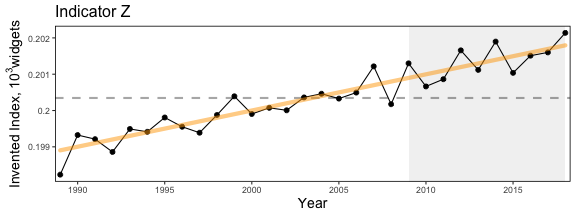
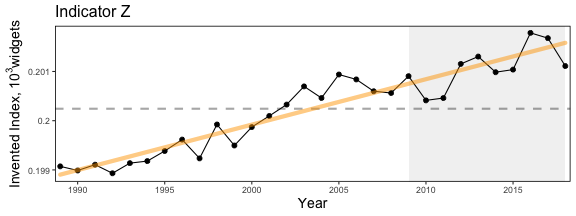
508 alt text and speaker notes

diff --git a/docs/20200108_EBFM_Gaichas.html b/docs/20200108_EBFM_Gaichas.html
@@ -61,7 +61,7 @@ https://www.integratedecosystemassessment.noaa.gov/national/IEA-approach
 
 Eight regional Fishery Management Councils establish plans for sustainable management of stocks within their jurisdictions. All are governed by the same law, but tailor management to their regional stakeholder needs.
 
-![Council map](EDAB_images/USCouncils.png)
+![US map highlighting regions for each fishery management council](EDAB_images/USCouncils.png)
 
 More information: http://www.fisherycouncils.org/
 https://www.fisheries.noaa.gov/topic/laws-policies#magnuson-stevens-act
@@ -70,10 +70,10 @@ https://www.fisheries.noaa.gov/topic/laws-policies#magnuson-stevens-act
 ## The Mid-Atlantic Fishery Management Council (MAFMC)
 
 .pull-left-30[
-![MAcouncil](EDAB_images/MACouncil.png)
+![US East Coast map highlighting Mid-Atlantic council jurisdiction](EDAB_images/MACouncil.png)
 ]
 .pull-right-70[
-![MAFMPs](EDAB_images/MAFMPs2.png)
+![MAFMC fishery management plans and species](EDAB_images/MAFMPs2.png)
 ]
 Source: http://www.mafmc.org/fishery-management-plans
 ---
@@ -487,16 +487,18 @@ Indicators are selected to
 1. Be responsive to ecosystem change
 
 
-&lt;img src="20200108_EBFM_Gaichas_files/figure-html/doc-orientation-1.png" style="display: block; margin: auto;" /&gt;
 
 
-
+.center[
+![plot in standard reporting format described in speaker notes](20200108_EBFM_Gaichas_files/figure-html/doc-orientation-1.png)
+]
 .footnote[
 [1] Rice J. C.Rochet M. J. "A framework for selecting a suite of indicators for fisheries management." ICES Journal of Marine Science 62 (2005): 516–527.  
 [2] Link J. 2010. Ecosystem-Based Fisheries Management: Confronting Tradeoffs . Cambridge University Press, New York.  
 [3] Zador, Stephani G., et al. "Ecosystem considerations in Alaska: the value of qualitative assessments." ICES Journal of Marine Science 74.1 (2017): 421-430.
 ]
-
+???
+The figure format is illustrated here. Trend lines are shown when slope is significantly different from 0 at the p &lt; 0.05 level. An orange line signifies an overall positive trend, and purple signifies a negative trend. To minimize bias introduced by small sample size, no trend is fit for &lt; 30 year time series. Dashed lines represent mean values of time series unless the indicator is an anomaly, in which case the dashed line is equal to 0. Shaded regions indicate the past ten years. If there are no new data for the most recent year, the shaded region will still cover this time period. 
 ---
 ## Indicator spatial scales--already Mid-Atlantic specific
 
@@ -1096,10 +1098,11 @@ Each species ranked according to position/color in the plot on the right
 
 
 ---
-<div id="htmlwidget-32d6f9f6144295c754f8" style="width:710px;height:710px;" class="chorddiag html-widget"></div>
-<script type="application/json" data-for="htmlwidget-32d6f9f6144295c754f8">{"x":{"matrix":[[0,0,0,0,0,0,0,0,0,0,0,0,0,0,0,0,0,0,0,0,0,0,0,0,0,0,0,0,0,0,0,0,0,0,0,0,0,0,0,0,0,0,0,0,0,0,0,0,0,0,0,0,0,0,0,0,0],[0,0,0,0,0,0,0,0,0,0,0,0,0,0,0,0,0,0,0,0,0,0,0,0,0,0,0,0,0,0,0,0,0,0,0,0,0,0,0,0,0,0,0,1,0,0,0,0,1,0,0,0,0,0,0,0,0],[0,0,0,0,0,0,0,0,0,0,0,0,0,0,0,0,0,0,0,0,0,0,0,0,0,0,0,0,0,0,0,0,0,0,0,0,0,0,0,0,0,0,0,0,0,0,0,0,0,0,0,1,0,0,1,1,0],[0,0,0,0,0,0,0,0,0,0,0,0,0,0,0,0,0,0,0,0,0,0,0,0,0,0,0,0,0,0,0,0,0,0,0,0,0,0,0,0,0,0,0,1,0,0,0,0,0,0,0,0,0,0,0,0,0],[0,0,0,0,0,0,0,0,0,0,0,0,0,0,0,0,0,0,0,0,0,0,0,0,0,0,0,0,0,0,0,0,0,0,0,0,0,0,0,0,0,0,0,1,0,0,0,0,0,0,0,0,0,0,0,0,0],[0,0,0,0,0,0,0,0,0,0,0,0,0,0,0,0,0,0,0,0,0,0,0,0,0,0,0,0,0,0,0,0,0,0,0,0,0,0,0,0,0,0,0,0,0,0,0,0,1,0,0,0,0,0,0,0,0],[0,0,0,0,0,0,0,0,0,0,0,0,0,0,0,0,0,0,0,0,0,0,0,0,0,0,0,0,0,0,0,0,0,0,0,0,0,0,0,0,0,0,0,0,0,0,0,0,1,0,0,0,0,0,0,0,0],[0,0,0,0,0,0,0,0,0,0,0,0,0,0,0,0,0,0,0,0,0,0,0,0,0,0,0,0,0,0,0,1,0,0,0,0,0,0,0,0,0,0,0,0,0,0,0,0,0,0,0,0,0,0,0,0,0],[0,0,0,0,0,0,0,1,0,0,0,0,0,0,0,0,0,0,0,0,0,1,0,0,1,0,0,0,0,0,0,0,0,1,0,0,0,0,0,1,0,0,0,1,0,0,0,0,1,0,0,1,0,0,1,0,0],[0,0,0,0,0,0,0,0,0,0,0,0,0,0,0,0,0,0,1,0,0,0,0,0,0,0,0,0,0,0,0,0,0,0,0,0,0,0,0,0,0,0,0,0,0,0,0,0,0,0,0,0,0,0,1,0,0],[0,0,0,0,0,0,0,0,0,0,0,0,0,0,0,0,0,0,0,0,0,0,0,0,0,0,0,0,0,0,0,0,0,0,0,0,0,0,0,0,0,0,0,0,0,0,0,0,0,0,0,0,0,0,1,0,0],[0,0,0,0,0,0,0,0,0,0,0,0,0,0,0,0,0,0,0,0,0,0,0,0,0,0,0,0,0,0,0,1,0,0,0,0,0,0,0,0,0,0,0,1,0,0,0,0,1,0,0,0,0,0,0,0,0],[0,0,0,0,0,0,0,0,0,0,0,0,0,0,0,0,0,0,0,0,0,0,0,0,0,0,0,0,0,0,0,0,0,0,0,0,0,0,0,0,0,0,0,1,0,0,0,0,0,0,0,0,0,0,0,0,0],[0,0,0,0,0,0,0,0,0,0,0,0,0,0,0,0,0,0,0,0,0,0,0,0,1,0,0,0,0,0,0,0,0,0,0,0,0,0,0,0,0,0,0,0,0,0,0,0,0,0,0,0,0,0,0,0,0],[0,0,0,0,0,0,0,0,0,0,0,0,0,0,0,1,0,1,0,1,0,0,0,0,0,0,0,0,0,0,0,0,0,0,0,0,0,0,0,0,0,0,0,0,0,0,0,0,0,0,0,0,0,0,0,0,0],[0,0,0,0,0,0,0,0,0,0,0,0,0,0,0,0,0,1,0,0,0,0,0,0,0,0,0,0,0,0,0,0,0,0,0,0,0,0,0,0,0,0,0,0,0,0,0,0,0,0,0,0,0,0,0,0,0],[0,0,0,0,0,0,0,0,0,0,0,0,0,1,0,0,0,0,0,0,0,0,0,0,0,0,0,0,0,0,0,0,0,0,0,0,0,0,0,0,0,0,0,0,0,0,0,0,0,0,0,0,0,0,0,0,0],[0,0,0,0,0,0,0,0,0,0,0,0,0,0,0,0,0,0,0,0,1,0,0,0,0,0,0,0,0,0,0,0,0,0,0,0,0,0,0,0,0,0,0,0,0,0,0,0,0,0,0,0,0,0,0,1,0],[0,0,0,0,0,0,0,0,0,0,0,0,0,0,0,0,0,0,0,1,0,0,0,0,1,0,0,1,0,0,0,0,0,0,0,0,0,0,0,0,0,0,0,0,0,0,0,0,0,0,0,1,0,0,0,0,0],[0,0,0,0,0,0,0,0,0,0,0,0,0,0,0,0,0,0,0,0,1,0,0,0,0,0,0,0,0,0,0,0,0,1,0,0,0,0,0,0,0,0,0,0,0,0,0,0,0,0,0,0,0,0,1,1,0],[0,0,0,0,0,0,0,0,0,0,0,0,0,0,0,0,0,0,0,0,0,0,0,0,0,0,0,0,0,0,0,0,0,1,0,0,0,0,0,0,0,0,0,0,0,0,0,0,0,0,0,1,0,0,1,1,0],[0,0,0,0,0,0,0,0,0,0,0,0,0,0,1,1,0,1,0,1,0,0,0,0,0,0,0,1,0,0,0,0,0,0,0,0,0,0,0,0,0,0,0,0,0,0,0,0,0,0,0,1,0,0,1,0,0],[0,0,0,0,0,0,0,0,0,0,0,0,0,0,0,0,0,0,1,0,0,0,0,0,0,0,0,0,0,0,0,0,0,0,0,0,0,0,0,0,0,0,0,0,0,0,0,0,0,0,0,0,0,0,0,0,0],[0,0,0,0,0,0,0,0,0,0,0,0,0,0,0,0,0,0,0,0,0,0,0,0,1,0,0,0,0,0,0,0,0,0,0,0,0,0,0,0,0,0,0,0,0,0,0,0,0,0,0,0,0,0,0,0,0],[0,0,0,0,0,0,0,0,0,0,0,0,0,0,0,0,0,0,0,1,1,1,0,0,0,0,0,1,0,0,0,0,0,0,0,0,0,0,0,0,0,0,0,0,0,0,0,0,0,0,0,1,0,0,1,0,0],[0,0,0,0,0,0,0,0,0,0,0,0,0,0,0,0,0,0,0,0,0,0,0,0,0,0,0,1,0,0,0,0,0,0,0,0,0,0,0,0,0,0,0,0,0,0,0,0,0,0,0,0,0,0,0,0,0],[0,0,0,0,0,0,0,0,0,0,0,0,0,0,0,1,0,1,0,0,0,0,0,0,0,0,0,0,0,0,0,0,0,0,0,0,0,0,0,0,0,0,0,0,0,0,0,0,0,0,0,0,0,0,0,0,0],[0,0,0,0,0,0,0,0,0,0,0,0,0,1,0,0,1,0,1,0,0,0,1,0,0,0,0,0,0,0,0,0,0,0,0,0,0,0,0,0,0,0,0,0,0,0,0,0,0,0,0,1,0,0,1,0,0],[0,0,0,0,0,0,0,0,0,0,0,0,0,0,0,0,0,0,0,0,1,0,0,0,1,0,0,0,0,0,0,0,0,0,0,0,0,0,0,0,0,0,0,0,0,0,0,0,0,0,0,0,0,0,0,0,0],[0,0,0,0,0,0,0,0,0,0,0,0,0,0,0,0,0,0,0,0,0,0,0,0,0,0,0,0,0,0,0,0,0,1,0,0,0,0,0,0,0,0,0,0,0,0,0,0,0,0,0,0,0,0,0,0,0],[0,0,0,0,0,0,0,0,0,0,0,0,0,0,0,0,0,0,0,0,0,0,0,0,0,0,0,0,0,0,0,1,0,1,0,0,0,0,0,0,0,0,0,0,0,0,0,0,0,0,0,0,0,0,0,0,0],[0,0,0,0,0,0,0,0,1,0,0,0,0,0,0,1,0,1,1,1,1,1,0,0,0,0,0,0,0,0,0,0,0,1,0,0,0,0,0,0,0,1,0,0,0,0,0,0,0,0,0,1,0,0,1,0,0],[0,0,0,0,0,0,0,0,0,0,0,0,0,0,0,0,0,0,0,1,0,0,0,0,0,0,0,0,0,0,0,1,0,1,0,0,0,0,0,0,0,0,0,0,0,0,0,0,0,0,0,0,0,0,0,0,0],[0,0,0,0,0,0,0,0,0,0,0,0,0,0,0,0,0,0,0,0,1,1,0,0,0,0,0,0,0,0,0,1,0,0,0,0,0,0,0,0,0,1,0,0,0,0,0,0,0,0,0,1,0,0,1,0,0],[0,0,0,0,0,0,0,0,0,0,0,0,0,0,0,0,0,0,0,0,0,0,0,0,0,0,0,0,0,0,0,0,0,1,0,0,0,0,0,0,0,0,0,0,0,0,0,0,0,0,0,0,0,0,0,0,0],[0,0,0,0,0,0,0,0,0,0,0,0,0,0,0,0,0,0,0,0,0,0,0,0,0,0,0,0,0,0,0,0,0,1,0,0,0,0,0,0,0,0,0,0,0,0,0,0,0,0,0,0,0,0,0,0,0],[0,0,0,0,0,0,0,0,0,0,0,0,0,0,0,0,0,0,0,0,0,0,0,0,0,0,0,0,0,0,0,1,0,1,0,0,0,0,0,0,0,0,0,0,0,0,0,0,0,0,0,0,0,0,0,0,0],[0,0,0,0,0,0,0,0,0,0,0,0,0,0,0,0,0,0,0,0,0,0,0,0,0,0,0,0,0,0,0,0,0,1,0,0,0,0,0,0,0,0,0,0,0,0,0,0,0,0,0,0,0,0,0,0,0],[0,0,0,0,0,0,0,0,0,0,0,0,0,0,0,0,0,0,0,0,0,0,0,0,0,0,0,0,0,0,0,0,0,0,0,0,0,0,0,0,0,1,0,0,0,0,0,0,0,0,0,0,0,0,0,0,0],[0,0,0,0,0,0,0,0,0,0,0,0,0,0,0,0,0,0,0,0,0,1,0,0,1,0,0,1,0,0,0,0,0,0,0,0,0,0,0,0,0,1,0,0,0,0,0,0,0,0,0,0,0,0,0,0,0],[0,0,0,0,0,0,0,0,0,0,0,0,0,0,0,0,0,0,0,0,0,0,0,0,1,0,0,0,0,0,0,0,0,0,0,0,0,0,0,0,0,0,0,0,0,0,0,0,0,0,0,0,0,0,0,0,0],[0,0,0,0,0,0,0,0,0,0,0,0,0,0,0,0,0,0,0,0,0,0,0,0,1,0,0,0,1,0,0,0,0,0,0,0,0,0,0,0,0,0,0,0,0,0,0,0,0,0,0,0,0,0,0,0,0],[0,0,0,0,0,0,0,0,0,0,0,0,0,0,0,0,0,0,0,0,0,0,0,0,0,0,0,0,0,0,0,0,0,0,0,0,0,0,0,0,0,0,0,1,0,0,0,0,0,0,0,0,0,0,0,0,0],[0,0,0,0,0,0,0,0,0,0,0,0,0,0,0,0,0,0,0,0,0,0,0,0,0,0,0,0,0,0,0,1,1,1,0,0,1,0,0,0,0,0,0,0,0,0,0,0,0,0,0,0,0,0,0,0,0],[0,0,0,0,0,0,0,0,0,0,0,0,0,0,0,0,0,0,0,0,0,0,0,0,0,0,0,0,0,0,0,1,0,1,0,0,0,0,0,0,0,0,0,1,0,0,0,0,1,0,0,0,0,0,0,0,0],[0,0,0,0,0,0,0,0,0,0,0,0,0,0,0,0,0,0,0,0,0,0,0,0,0,0,0,0,0,0,0,0,0,0,0,0,0,0,0,0,0,0,0,1,0,0,0,0,0,0,0,0,0,0,0,0,0],[0,0,0,0,0,0,0,0,0,0,0,0,0,0,0,0,0,0,0,0,0,0,0,0,0,0,0,0,0,0,0,0,0,0,0,0,0,0,0,0,0,0,0,0,0,0,0,0,1,0,0,0,0,0,0,0,0],[0,0,0,0,0,0,0,0,0,0,0,0,0,0,0,0,0,0,0,0,0,0,0,0,0,0,0,0,0,0,0,0,0,0,0,0,0,0,0,0,0,0,0,1,0,0,0,0,0,0,0,0,0,0,0,0,0],[0,0,0,0,0,0,0,0,0,0,0,0,0,0,0,0,0,0,0,0,0,0,0,0,0,0,0,0,0,0,0,1,0,1,0,0,0,0,0,0,0,0,0,0,0,0,0,0,0,0,0,0,0,0,0,0,0],[0,0,0,0,0,0,0,0,0,0,0,0,0,0,0,0,0,0,0,0,0,0,0,0,0,0,0,0,0,0,0,0,0,0,0,0,0,0,0,0,0,0,0,1,0,0,0,0,1,0,0,0,0,0,0,0,0],[0,0,0,0,0,0,0,0,0,0,0,0,0,0,0,0,0,0,0,0,0,0,0,0,0,0,0,0,0,0,0,0,0,0,0,0,0,0,0,0,0,0,0,1,0,0,0,0,0,0,0,0,0,0,0,0,0],[1,0,0,0,0,0,0,0,0,0,0,0,0,1,1,1,0,1,0,0,0,0,0,0,0,0,0,0,0,0,0,0,0,0,0,0,0,0,0,0,0,0,0,0,0,0,0,0,0,0,0,0,0,0,0,0,0],[0,0,0,0,0,0,0,0,0,0,0,0,0,0,0,0,0,0,0,0,0,0,0,0,0,0,0,0,0,0,0,0,0,0,0,0,0,0,0,0,0,0,0,0,0,0,0,0,0,0,0,0,0,0,1,0,0],[0,0,0,0,0,0,0,0,0,0,0,0,0,0,0,0,0,0,0,0,0,0,0,0,0,0,0,0,0,0,0,0,0,0,0,0,0,0,0,0,0,0,0,0,0,0,0,0,0,0,0,0,0,0,1,0,0],[0,0,0,0,0,0,0,0,0,0,0,0,0,0,0,0,0,0,0,0,0,0,0,0,0,0,0,0,0,0,0,0,0,0,0,0,0,0,0,0,0,0,0,0,0,0,0,0,0,0,0,0,0,0,0,0,0],[0,0,0,0,0,0,0,0,0,0,0,0,0,0,0,0,0,0,0,0,0,0,0,0,0,0,0,0,0,0,0,0,0,0,0,0,0,0,0,0,0,0,0,0,0,0,0,0,0,0,0,0,1,0,1,0,0],[0,0,0,0,0,0,0,0,0,1,0,0,0,0,0,0,0,0,1,0,0,0,0,0,0,0,0,0,0,0,0,0,0,0,0,0,0,0,0,0,0,0,0,0,0,0,0,0,0,0,0,0,0,0,0,0,0]],"options":{"type":"directional","width":710,"height":710,"margin":130,"showGroupnames":true,"groupNames":["Community Vulnerability","Dissolved Oxygen","Economic Drivers","Freshwater Influx","Nutrient Influx","Ocean Acidification","Ocean Features","Oceanographic Transport","Offshore Wind","Other Species  Distributional Shifts","Shifts in Preferences","Temperature","Water Diversion","Compliance","Fishery Distributional Shift","Fleet Diversity","Perceived Inequity","Shoreside Support","Technical Interactions","Total Discards","Total Landings","Allocation","Communication","Enforcement","Management Control","Other Regulations","Permit Access","Regulatory Complexity","Risk Buffering","Adults & Spawners","Age & Size Structure","Fluke Distributional Shift","Fluke Recruitment","Fluke SSB","Growth","Maturation","Natural Mortality","Sex Ratio","Assessment Process","Data Quality","Rec. Fishing Predictability","Stock Assessment","Aquatic Vegetation","Estuarine Habitat","Food Web Changes","Habitat Alteration","Habitat Disturbance","Loose Inert Substrate","Offshore Habitat","Salinity","Water Clarity","Commercial Profits","Consumer Surplus","Rec. Business Profits","Recreational Value","Seafood Production","Protected Species"],"groupColors":["#1B9E77","#1B9E77","#1B9E77","#1B9E77","#1B9E77","#1B9E77","#1B9E77","#1B9E77","#1B9E77","#1B9E77","#1B9E77","#1B9E77","#1B9E77","#666666","#666666","#666666","#666666","#666666","#666666","#666666","#666666","#66A61E","#66A61E","#66A61E","#66A61E","#66A61E","#66A61E","#66A61E","#66A61E","#7570B3","#7570B3","#7570B3","#7570B3","#7570B3","#7570B3","#7570B3","#7570B3","#7570B3","#A6761D","#A6761D","#A6761D","#A6761D","#D95F02","#D95F02","#D95F02","#D95F02","#D95F02","#D95F02","#D95F02","#D95F02","#D95F02","#E6AB02","#E6AB02","#E6AB02","#E6AB02","#E6AB02","#E7298A"],"groupThickness":0.1,"groupPadding":0.0174532925199433,"groupnamePadding":[10,10,10,10,10,10,10,10,10,10,10,10,10,10,10,10,10,10,10,10,10,10,10,10,10,10,10,10,10,10,10,10,10,10,10,10,10,10,10,10,10,10,10,10,10,10,10,10,10,10,10,10,10,10,10,10,10],"groupnameFontsize":12,"groupedgeColor":["#1B9E77","#1B9E77","#1B9E77","#1B9E77","#1B9E77","#1B9E77","#1B9E77","#1B9E77","#1B9E77","#1B9E77","#1B9E77","#1B9E77","#1B9E77","#666666","#666666","#666666","#666666","#666666","#666666","#666666","#666666","#66A61E","#66A61E","#66A61E","#66A61E","#66A61E","#66A61E","#66A61E","#66A61E","#7570B3","#7570B3","#7570B3","#7570B3","#7570B3","#7570B3","#7570B3","#7570B3","#7570B3","#A6761D","#A6761D","#A6761D","#A6761D","#D95F02","#D95F02","#D95F02","#D95F02","#D95F02","#D95F02","#D95F02","#D95F02","#D95F02","#E6AB02","#E6AB02","#E6AB02","#E6AB02","#E6AB02","#E7298A"],"chordedgeColor":["#1B9E77","#1B9E77","#1B9E77","#1B9E77","#1B9E77","#1B9E77","#1B9E77","#1B9E77","#1B9E77","#1B9E77","#1B9E77","#1B9E77","#1B9E77","#666666","#666666","#666666","#666666","#666666","#666666","#666666","#666666","#66A61E","#66A61E","#66A61E","#66A61E","#66A61E","#66A61E","#66A61E","#66A61E","#7570B3","#7570B3","#7570B3","#7570B3","#7570B3","#7570B3","#7570B3","#7570B3","#7570B3","#A6761D","#A6761D","#A6761D","#A6761D","#D95F02","#D95F02","#D95F02","#D95F02","#D95F02","#D95F02","#D95F02","#D95F02","#D95F02","#E6AB02","#E6AB02","#E6AB02","#E6AB02","#E6AB02","#E7298A"],"categoryNames":null,"categorynamePadding":100,"categorynameFontsize":28,"showTicks":false,"tickInterval":0.1,"ticklabelFontsize":10,"fadeLevel":0.1,"showTooltips":true,"showZeroTooltips":true,"tooltipNames":["Community Vulnerability","Dissolved Oxygen","Economic Drivers","Freshwater Influx","Nutrient Influx","Ocean Acidification","Ocean Features","Oceanographic Transport","Offshore Wind","Other Species  Distributional Shifts","Shifts in Preferences","Temperature","Water Diversion","Compliance","Fishery Distributional Shift","Fleet Diversity","Perceived Inequity","Shoreside Support","Technical Interactions","Total Discards","Total Landings","Allocation","Communication","Enforcement","Management Control","Other Regulations","Permit Access","Regulatory Complexity","Risk Buffering","Adults & Spawners","Age & Size Structure","Fluke Distributional Shift","Fluke Recruitment","Fluke SSB","Growth","Maturation","Natural Mortality","Sex Ratio","Assessment Process","Data Quality","Rec. Fishing Predictability","Stock Assessment","Aquatic Vegetation","Estuarine Habitat","Food Web Changes","Habitat Alteration","Habitat Disturbance","Loose Inert Substrate","Offshore Habitat","Salinity","Water Clarity","Commercial Profits","Consumer Surplus","Rec. Business Profits","Recreational Value","Seafood Production","Protected Species"],"tooltipFontsize":12,"tooltipUnit":"","tooltipGroupConnector":" &#x25B6; ","precision":"null","clickAction":null,"clickGroupAction":null}},"evals":[],"jsHooks":[]}</script>
+<div id="htmlwidget-9d5cf594a5d51be57a5b" style="width:710px;height:710px;" class="chorddiag html-widget"></div>
+<script type="application/json" data-for="htmlwidget-9d5cf594a5d51be57a5b">{"x":{"matrix":[[0,0,0,0,0,0,0,0,0,0,0,0,0,0,0,0,0,0,0,0,0,0,0,0,0,0,0,0,0,0,0,0,0,0,0,0,0,0,0,0,0,0,0,0,0,0,0,0,0,0,0,0,0,0,0,0,0],[0,0,0,0,0,0,0,0,0,0,0,0,0,0,0,0,0,0,0,0,0,0,0,0,0,0,0,0,0,0,0,0,0,0,0,0,0,0,0,0,0,0,0,1,0,0,0,0,1,0,0,0,0,0,0,0,0],[0,0,0,0,0,0,0,0,0,0,0,0,0,0,0,0,0,0,0,0,0,0,0,0,0,0,0,0,0,0,0,0,0,0,0,0,0,0,0,0,0,0,0,0,0,0,0,0,0,0,0,1,0,0,1,1,0],[0,0,0,0,0,0,0,0,0,0,0,0,0,0,0,0,0,0,0,0,0,0,0,0,0,0,0,0,0,0,0,0,0,0,0,0,0,0,0,0,0,0,0,1,0,0,0,0,0,0,0,0,0,0,0,0,0],[0,0,0,0,0,0,0,0,0,0,0,0,0,0,0,0,0,0,0,0,0,0,0,0,0,0,0,0,0,0,0,0,0,0,0,0,0,0,0,0,0,0,0,1,0,0,0,0,0,0,0,0,0,0,0,0,0],[0,0,0,0,0,0,0,0,0,0,0,0,0,0,0,0,0,0,0,0,0,0,0,0,0,0,0,0,0,0,0,0,0,0,0,0,0,0,0,0,0,0,0,0,0,0,0,0,1,0,0,0,0,0,0,0,0],[0,0,0,0,0,0,0,0,0,0,0,0,0,0,0,0,0,0,0,0,0,0,0,0,0,0,0,0,0,0,0,0,0,0,0,0,0,0,0,0,0,0,0,0,0,0,0,0,1,0,0,0,0,0,0,0,0],[0,0,0,0,0,0,0,0,0,0,0,0,0,0,0,0,0,0,0,0,0,0,0,0,0,0,0,0,0,0,0,1,0,0,0,0,0,0,0,0,0,0,0,0,0,0,0,0,0,0,0,0,0,0,0,0,0],[0,0,0,0,0,0,0,1,0,0,0,0,0,0,0,0,0,0,0,0,0,1,0,0,1,0,0,0,0,0,0,0,0,1,0,0,0,0,0,1,0,0,0,1,0,0,0,0,1,0,0,1,0,0,1,0,0],[0,0,0,0,0,0,0,0,0,0,0,0,0,0,0,0,0,0,1,0,0,0,0,0,0,0,0,0,0,0,0,0,0,0,0,0,0,0,0,0,0,0,0,0,0,0,0,0,0,0,0,0,0,0,1,0,0],[0,0,0,0,0,0,0,0,0,0,0,0,0,0,0,0,0,0,0,0,0,0,0,0,0,0,0,0,0,0,0,0,0,0,0,0,0,0,0,0,0,0,0,0,0,0,0,0,0,0,0,0,0,0,1,0,0],[0,0,0,0,0,0,0,0,0,0,0,0,0,0,0,0,0,0,0,0,0,0,0,0,0,0,0,0,0,0,0,1,0,0,0,0,0,0,0,0,0,0,0,1,0,0,0,0,1,0,0,0,0,0,0,0,0],[0,0,0,0,0,0,0,0,0,0,0,0,0,0,0,0,0,0,0,0,0,0,0,0,0,0,0,0,0,0,0,0,0,0,0,0,0,0,0,0,0,0,0,1,0,0,0,0,0,0,0,0,0,0,0,0,0],[0,0,0,0,0,0,0,0,0,0,0,0,0,0,0,0,0,0,0,0,0,0,0,0,1,0,0,0,0,0,0,0,0,0,0,0,0,0,0,0,0,0,0,0,0,0,0,0,0,0,0,0,0,0,0,0,0],[0,0,0,0,0,0,0,0,0,0,0,0,0,0,0,1,0,1,0,1,0,0,0,0,0,0,0,0,0,0,0,0,0,0,0,0,0,0,0,0,0,0,0,0,0,0,0,0,0,0,0,0,0,0,0,0,0],[0,0,0,0,0,0,0,0,0,0,0,0,0,0,0,0,0,1,0,0,0,0,0,0,0,0,0,0,0,0,0,0,0,0,0,0,0,0,0,0,0,0,0,0,0,0,0,0,0,0,0,0,0,0,0,0,0],[0,0,0,0,0,0,0,0,0,0,0,0,0,1,0,0,0,0,0,0,0,0,0,0,0,0,0,0,0,0,0,0,0,0,0,0,0,0,0,0,0,0,0,0,0,0,0,0,0,0,0,0,0,0,0,0,0],[0,0,0,0,0,0,0,0,0,0,0,0,0,0,0,0,0,0,0,0,1,0,0,0,0,0,0,0,0,0,0,0,0,0,0,0,0,0,0,0,0,0,0,0,0,0,0,0,0,0,0,0,0,0,0,1,0],[0,0,0,0,0,0,0,0,0,0,0,0,0,0,0,0,0,0,0,1,0,0,0,0,1,0,0,1,0,0,0,0,0,0,0,0,0,0,0,0,0,0,0,0,0,0,0,0,0,0,0,1,0,0,0,0,0],[0,0,0,0,0,0,0,0,0,0,0,0,0,0,0,0,0,0,0,0,1,0,0,0,0,0,0,0,0,0,0,0,0,1,0,0,0,0,0,0,0,0,0,0,0,0,0,0,0,0,0,0,0,0,1,1,0],[0,0,0,0,0,0,0,0,0,0,0,0,0,0,0,0,0,0,0,0,0,0,0,0,0,0,0,0,0,0,0,0,0,1,0,0,0,0,0,0,0,0,0,0,0,0,0,0,0,0,0,1,0,0,1,1,0],[0,0,0,0,0,0,0,0,0,0,0,0,0,0,1,1,0,1,0,1,0,0,0,0,0,0,0,1,0,0,0,0,0,0,0,0,0,0,0,0,0,0,0,0,0,0,0,0,0,0,0,1,0,0,1,0,0],[0,0,0,0,0,0,0,0,0,0,0,0,0,0,0,0,0,0,1,0,0,0,0,0,0,0,0,0,0,0,0,0,0,0,0,0,0,0,0,0,0,0,0,0,0,0,0,0,0,0,0,0,0,0,0,0,0],[0,0,0,0,0,0,0,0,0,0,0,0,0,0,0,0,0,0,0,0,0,0,0,0,1,0,0,0,0,0,0,0,0,0,0,0,0,0,0,0,0,0,0,0,0,0,0,0,0,0,0,0,0,0,0,0,0],[0,0,0,0,0,0,0,0,0,0,0,0,0,0,0,0,0,0,0,1,1,1,0,0,0,0,0,1,0,0,0,0,0,0,0,0,0,0,0,0,0,0,0,0,0,0,0,0,0,0,0,1,0,0,1,0,0],[0,0,0,0,0,0,0,0,0,0,0,0,0,0,0,0,0,0,0,0,0,0,0,0,0,0,0,1,0,0,0,0,0,0,0,0,0,0,0,0,0,0,0,0,0,0,0,0,0,0,0,0,0,0,0,0,0],[0,0,0,0,0,0,0,0,0,0,0,0,0,0,0,1,0,1,0,0,0,0,0,0,0,0,0,0,0,0,0,0,0,0,0,0,0,0,0,0,0,0,0,0,0,0,0,0,0,0,0,0,0,0,0,0,0],[0,0,0,0,0,0,0,0,0,0,0,0,0,1,0,0,1,0,1,0,0,0,1,0,0,0,0,0,0,0,0,0,0,0,0,0,0,0,0,0,0,0,0,0,0,0,0,0,0,0,0,1,0,0,1,0,0],[0,0,0,0,0,0,0,0,0,0,0,0,0,0,0,0,0,0,0,0,1,0,0,0,1,0,0,0,0,0,0,0,0,0,0,0,0,0,0,0,0,0,0,0,0,0,0,0,0,0,0,0,0,0,0,0,0],[0,0,0,0,0,0,0,0,0,0,0,0,0,0,0,0,0,0,0,0,0,0,0,0,0,0,0,0,0,0,0,0,0,1,0,0,0,0,0,0,0,0,0,0,0,0,0,0,0,0,0,0,0,0,0,0,0],[0,0,0,0,0,0,0,0,0,0,0,0,0,0,0,0,0,0,0,0,0,0,0,0,0,0,0,0,0,0,0,1,0,1,0,0,0,0,0,0,0,0,0,0,0,0,0,0,0,0,0,0,0,0,0,0,0],[0,0,0,0,0,0,0,0,1,0,0,0,0,0,0,1,0,1,1,1,1,1,0,0,0,0,0,0,0,0,0,0,0,1,0,0,0,0,0,0,0,1,0,0,0,0,0,0,0,0,0,1,0,0,1,0,0],[0,0,0,0,0,0,0,0,0,0,0,0,0,0,0,0,0,0,0,1,0,0,0,0,0,0,0,0,0,0,0,1,0,1,0,0,0,0,0,0,0,0,0,0,0,0,0,0,0,0,0,0,0,0,0,0,0],[0,0,0,0,0,0,0,0,0,0,0,0,0,0,0,0,0,0,0,0,1,1,0,0,0,0,0,0,0,0,0,1,0,0,0,0,0,0,0,0,0,1,0,0,0,0,0,0,0,0,0,1,0,0,1,0,0],[0,0,0,0,0,0,0,0,0,0,0,0,0,0,0,0,0,0,0,0,0,0,0,0,0,0,0,0,0,0,0,0,0,1,0,0,0,0,0,0,0,0,0,0,0,0,0,0,0,0,0,0,0,0,0,0,0],[0,0,0,0,0,0,0,0,0,0,0,0,0,0,0,0,0,0,0,0,0,0,0,0,0,0,0,0,0,0,0,0,0,1,0,0,0,0,0,0,0,0,0,0,0,0,0,0,0,0,0,0,0,0,0,0,0],[0,0,0,0,0,0,0,0,0,0,0,0,0,0,0,0,0,0,0,0,0,0,0,0,0,0,0,0,0,0,0,1,0,1,0,0,0,0,0,0,0,0,0,0,0,0,0,0,0,0,0,0,0,0,0,0,0],[0,0,0,0,0,0,0,0,0,0,0,0,0,0,0,0,0,0,0,0,0,0,0,0,0,0,0,0,0,0,0,0,0,1,0,0,0,0,0,0,0,0,0,0,0,0,0,0,0,0,0,0,0,0,0,0,0],[0,0,0,0,0,0,0,0,0,0,0,0,0,0,0,0,0,0,0,0,0,0,0,0,0,0,0,0,0,0,0,0,0,0,0,0,0,0,0,0,0,1,0,0,0,0,0,0,0,0,0,0,0,0,0,0,0],[0,0,0,0,0,0,0,0,0,0,0,0,0,0,0,0,0,0,0,0,0,1,0,0,1,0,0,1,0,0,0,0,0,0,0,0,0,0,0,0,0,1,0,0,0,0,0,0,0,0,0,0,0,0,0,0,0],[0,0,0,0,0,0,0,0,0,0,0,0,0,0,0,0,0,0,0,0,0,0,0,0,1,0,0,0,0,0,0,0,0,0,0,0,0,0,0,0,0,0,0,0,0,0,0,0,0,0,0,0,0,0,0,0,0],[0,0,0,0,0,0,0,0,0,0,0,0,0,0,0,0,0,0,0,0,0,0,0,0,1,0,0,0,1,0,0,0,0,0,0,0,0,0,0,0,0,0,0,0,0,0,0,0,0,0,0,0,0,0,0,0,0],[0,0,0,0,0,0,0,0,0,0,0,0,0,0,0,0,0,0,0,0,0,0,0,0,0,0,0,0,0,0,0,0,0,0,0,0,0,0,0,0,0,0,0,1,0,0,0,0,0,0,0,0,0,0,0,0,0],[0,0,0,0,0,0,0,0,0,0,0,0,0,0,0,0,0,0,0,0,0,0,0,0,0,0,0,0,0,0,0,1,1,1,0,0,1,0,0,0,0,0,0,0,0,0,0,0,0,0,0,0,0,0,0,0,0],[0,0,0,0,0,0,0,0,0,0,0,0,0,0,0,0,0,0,0,0,0,0,0,0,0,0,0,0,0,0,0,1,0,1,0,0,0,0,0,0,0,0,0,1,0,0,0,0,1,0,0,0,0,0,0,0,0],[0,0,0,0,0,0,0,0,0,0,0,0,0,0,0,0,0,0,0,0,0,0,0,0,0,0,0,0,0,0,0,0,0,0,0,0,0,0,0,0,0,0,0,1,0,0,0,0,0,0,0,0,0,0,0,0,0],[0,0,0,0,0,0,0,0,0,0,0,0,0,0,0,0,0,0,0,0,0,0,0,0,0,0,0,0,0,0,0,0,0,0,0,0,0,0,0,0,0,0,0,0,0,0,0,0,1,0,0,0,0,0,0,0,0],[0,0,0,0,0,0,0,0,0,0,0,0,0,0,0,0,0,0,0,0,0,0,0,0,0,0,0,0,0,0,0,0,0,0,0,0,0,0,0,0,0,0,0,1,0,0,0,0,0,0,0,0,0,0,0,0,0],[0,0,0,0,0,0,0,0,0,0,0,0,0,0,0,0,0,0,0,0,0,0,0,0,0,0,0,0,0,0,0,1,0,1,0,0,0,0,0,0,0,0,0,0,0,0,0,0,0,0,0,0,0,0,0,0,0],[0,0,0,0,0,0,0,0,0,0,0,0,0,0,0,0,0,0,0,0,0,0,0,0,0,0,0,0,0,0,0,0,0,0,0,0,0,0,0,0,0,0,0,1,0,0,0,0,1,0,0,0,0,0,0,0,0],[0,0,0,0,0,0,0,0,0,0,0,0,0,0,0,0,0,0,0,0,0,0,0,0,0,0,0,0,0,0,0,0,0,0,0,0,0,0,0,0,0,0,0,1,0,0,0,0,0,0,0,0,0,0,0,0,0],[1,0,0,0,0,0,0,0,0,0,0,0,0,1,1,1,0,1,0,0,0,0,0,0,0,0,0,0,0,0,0,0,0,0,0,0,0,0,0,0,0,0,0,0,0,0,0,0,0,0,0,0,0,0,0,0,0],[0,0,0,0,0,0,0,0,0,0,0,0,0,0,0,0,0,0,0,0,0,0,0,0,0,0,0,0,0,0,0,0,0,0,0,0,0,0,0,0,0,0,0,0,0,0,0,0,0,0,0,0,0,0,1,0,0],[0,0,0,0,0,0,0,0,0,0,0,0,0,0,0,0,0,0,0,0,0,0,0,0,0,0,0,0,0,0,0,0,0,0,0,0,0,0,0,0,0,0,0,0,0,0,0,0,0,0,0,0,0,0,1,0,0],[0,0,0,0,0,0,0,0,0,0,0,0,0,0,0,0,0,0,0,0,0,0,0,0,0,0,0,0,0,0,0,0,0,0,0,0,0,0,0,0,0,0,0,0,0,0,0,0,0,0,0,0,0,0,0,0,0],[0,0,0,0,0,0,0,0,0,0,0,0,0,0,0,0,0,0,0,0,0,0,0,0,0,0,0,0,0,0,0,0,0,0,0,0,0,0,0,0,0,0,0,0,0,0,0,0,0,0,0,0,1,0,1,0,0],[0,0,0,0,0,0,0,0,0,1,0,0,0,0,0,0,0,0,1,0,0,0,0,0,0,0,0,0,0,0,0,0,0,0,0,0,0,0,0,0,0,0,0,0,0,0,0,0,0,0,0,0,0,0,0,0,0]],"options":{"type":"directional","width":710,"height":710,"margin":130,"showGroupnames":true,"groupNames":["Community Vulnerability","Dissolved Oxygen","Economic Drivers","Freshwater Influx","Nutrient Influx","Ocean Acidification","Ocean Features","Oceanographic Transport","Offshore Wind","Other Species  Distributional Shifts","Shifts in Preferences","Temperature","Water Diversion","Compliance","Fishery Distributional Shift","Fleet Diversity","Perceived Inequity","Shoreside Support","Technical Interactions","Total Discards","Total Landings","Allocation","Communication","Enforcement","Management Control","Other Regulations","Permit Access","Regulatory Complexity","Risk Buffering","Adults & Spawners","Age & Size Structure","Fluke Distributional Shift","Fluke Recruitment","Fluke SSB","Growth","Maturation","Natural Mortality","Sex Ratio","Assessment Process","Data Quality","Rec. Fishing Predictability","Stock Assessment","Aquatic Vegetation","Estuarine Habitat","Food Web Changes","Habitat Alteration","Habitat Disturbance","Loose Inert Substrate","Offshore Habitat","Salinity","Water Clarity","Commercial Profits","Consumer Surplus","Rec. Business Profits","Recreational Value","Seafood Production","Protected Species"],"groupColors":["#1B9E77","#1B9E77","#1B9E77","#1B9E77","#1B9E77","#1B9E77","#1B9E77","#1B9E77","#1B9E77","#1B9E77","#1B9E77","#1B9E77","#1B9E77","#666666","#666666","#666666","#666666","#666666","#666666","#666666","#666666","#66A61E","#66A61E","#66A61E","#66A61E","#66A61E","#66A61E","#66A61E","#66A61E","#7570B3","#7570B3","#7570B3","#7570B3","#7570B3","#7570B3","#7570B3","#7570B3","#7570B3","#A6761D","#A6761D","#A6761D","#A6761D","#D95F02","#D95F02","#D95F02","#D95F02","#D95F02","#D95F02","#D95F02","#D95F02","#D95F02","#E6AB02","#E6AB02","#E6AB02","#E6AB02","#E6AB02","#E7298A"],"groupThickness":0.1,"groupPadding":0.0174532925199433,"groupnamePadding":[10,10,10,10,10,10,10,10,10,10,10,10,10,10,10,10,10,10,10,10,10,10,10,10,10,10,10,10,10,10,10,10,10,10,10,10,10,10,10,10,10,10,10,10,10,10,10,10,10,10,10,10,10,10,10,10,10],"groupnameFontsize":12,"groupedgeColor":["#1B9E77","#1B9E77","#1B9E77","#1B9E77","#1B9E77","#1B9E77","#1B9E77","#1B9E77","#1B9E77","#1B9E77","#1B9E77","#1B9E77","#1B9E77","#666666","#666666","#666666","#666666","#666666","#666666","#666666","#666666","#66A61E","#66A61E","#66A61E","#66A61E","#66A61E","#66A61E","#66A61E","#66A61E","#7570B3","#7570B3","#7570B3","#7570B3","#7570B3","#7570B3","#7570B3","#7570B3","#7570B3","#A6761D","#A6761D","#A6761D","#A6761D","#D95F02","#D95F02","#D95F02","#D95F02","#D95F02","#D95F02","#D95F02","#D95F02","#D95F02","#E6AB02","#E6AB02","#E6AB02","#E6AB02","#E6AB02","#E7298A"],"chordedgeColor":["#1B9E77","#1B9E77","#1B9E77","#1B9E77","#1B9E77","#1B9E77","#1B9E77","#1B9E77","#1B9E77","#1B9E77","#1B9E77","#1B9E77","#1B9E77","#666666","#666666","#666666","#666666","#666666","#666666","#666666","#666666","#66A61E","#66A61E","#66A61E","#66A61E","#66A61E","#66A61E","#66A61E","#66A61E","#7570B3","#7570B3","#7570B3","#7570B3","#7570B3","#7570B3","#7570B3","#7570B3","#7570B3","#A6761D","#A6761D","#A6761D","#A6761D","#D95F02","#D95F02","#D95F02","#D95F02","#D95F02","#D95F02","#D95F02","#D95F02","#D95F02","#E6AB02","#E6AB02","#E6AB02","#E6AB02","#E6AB02","#E7298A"],"categoryNames":null,"categorynamePadding":100,"categorynameFontsize":28,"showTicks":false,"tickInterval":0.1,"ticklabelFontsize":10,"fadeLevel":0.1,"showTooltips":true,"showZeroTooltips":true,"tooltipNames":["Community Vulnerability","Dissolved Oxygen","Economic Drivers","Freshwater Influx","Nutrient Influx","Ocean Acidification","Ocean Features","Oceanographic Transport","Offshore Wind","Other Species  Distributional Shifts","Shifts in Preferences","Temperature","Water Diversion","Compliance","Fishery Distributional Shift","Fleet Diversity","Perceived Inequity","Shoreside Support","Technical Interactions","Total Discards","Total Landings","Allocation","Communication","Enforcement","Management Control","Other Regulations","Permit Access","Regulatory Complexity","Risk Buffering","Adults & Spawners","Age & Size Structure","Fluke Distributional Shift","Fluke Recruitment","Fluke SSB","Growth","Maturation","Natural Mortality","Sex Ratio","Assessment Process","Data Quality","Rec. Fishing Predictability","Stock Assessment","Aquatic Vegetation","Estuarine Habitat","Food Web Changes","Habitat Alteration","Habitat Disturbance","Loose Inert Substrate","Offshore Habitat","Salinity","Water Clarity","Commercial Profits","Consumer Surplus","Rec. Business Profits","Recreational Value","Seafood Production","Protected Species"],"tooltipFontsize":12,"tooltipUnit":"","tooltipGroupConnector":" &#x25B6; ","precision":"null","clickAction":null,"clickGroupAction":null}},"evals":[],"jsHooks":[]}</script>
 ???
-This interactive plot shows...
+In this interactive circular graph visualization, model elements identified as important by the Council (through risk assessment) and by the working group (through a range of experience and expertise) are at the perimeter of the circle. Elements are defined in detail in the last section of [this page](https://gdepiper.github.io/Summer_Flounder_Conceptual_Models/sfconsmod_riskfactors_subplots.html). Relationships between elements are represented as links across the center of the circle to other elements on the perimeter. Links from a model element that affect another element start wide at the base and are color coded to match the category of the element they affect.Hover over a perimeter section (an element) to see all relationships for that element, including links from other elements. Hover over a link to see what it connects. Links by default show text for the two elements and the direction of the relationship (1 for relationship, 0 for no relationship--most links are one direction).For example, hovering over the element "Total Landings" in the full model shows that the working group identified the elements affected by landings as Seafood Production, Recreational Value, and Commercial Profits (three links leading out from landings), and the elements affecting landings as Fluke SSB, Fluke Distributional Shift, Risk Buffering, Management Control, Total Discards, and Shoreside Support (6 links leading into Total Landings).
+
 ---
 ## Conclusions
 
